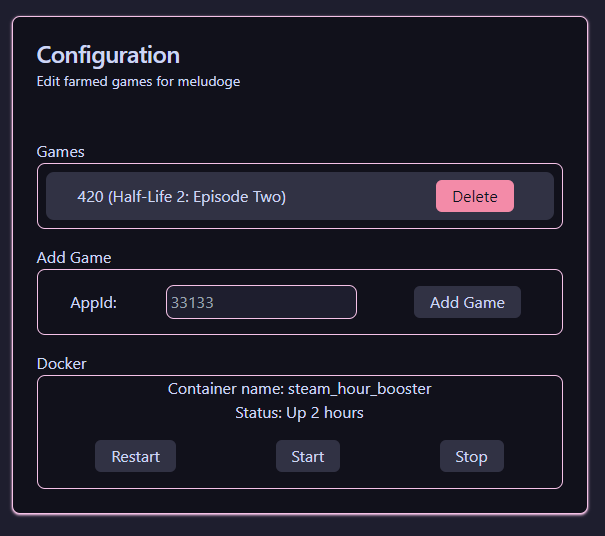
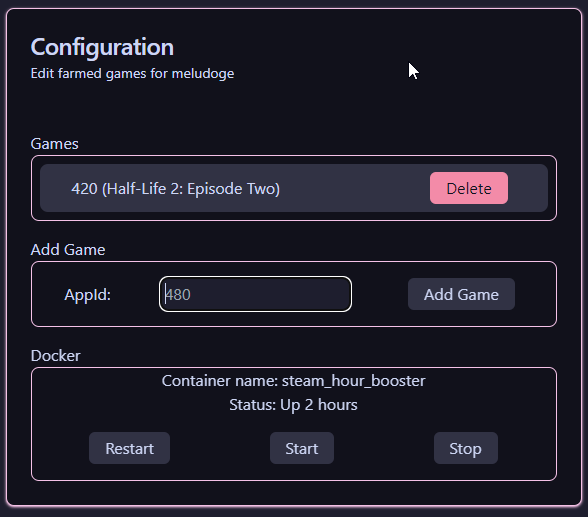
Add more docs

Changed region(s): [[0.0, 0.0, 1.0, 0.9903], [0.0918, 0.5571, 0.2143, 0.588], [0.6735, 0.1238, 0.7041, 0.1547]]

diff --git a/templates/index.html b/templates/index.html
@@ -40,7 +40,7 @@
               <div class="card">
                 <form action="add" method="POST" class="flex items-center justify-around 600 m-2">
                   <label for="AppId">AppId:</label>
-                  <input autofocus type="text" name="AppId" placeholder="33133" class="textbox" /> 
+                  <input autofocus type="text" name="AppId" placeholder="480" class="textbox" /> 
                   <button type="submit" class="button">Add Game</button>
                 </form>
               </div>

diff --git a/README.md b/README.md
@@ -11,6 +11,7 @@ It is a UI for the config.json with basic container controls to restart, it does
 - [x] Show the names of the boosted games
 - [x] Restart/Manage the container from web UI
 - [ ] Add games by name with included search
+- [ ] Add proper multi user support
 - [ ] Show human readable logs of the container
 - [ ] Disable boosted games without deleting them/remember previous games
 - [ ] Track current boosted games, not just games in the config
@@ -23,6 +24,10 @@ The container does not get restartet on config changes automatically.
 The `latest` Tag points to the latest release, edge gets rebuilt on main pushes and might be in a broken state.
 
 To run it standalone: `steam-hour-booster-ui --config ./config.json --container steam_hour_booster`
+
+### Muti-User support
+
+The backend can handle multi user, to change the displayed user, set the cookie shb-user to the username from your config. This defaults to the first user in the config
 
 ## Development
 
